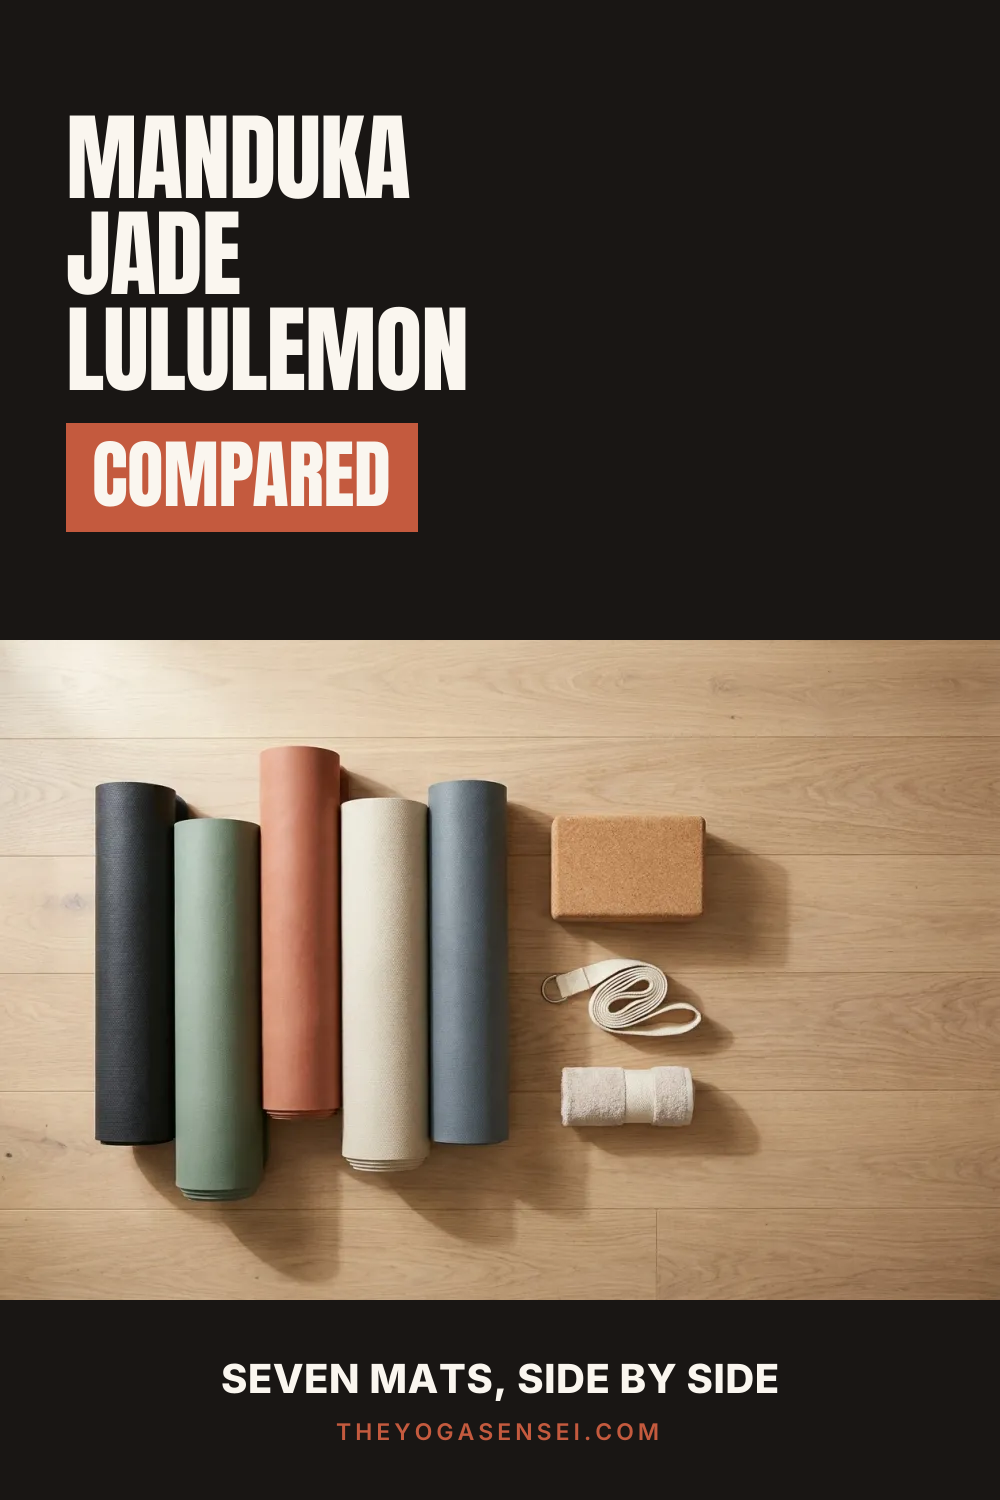
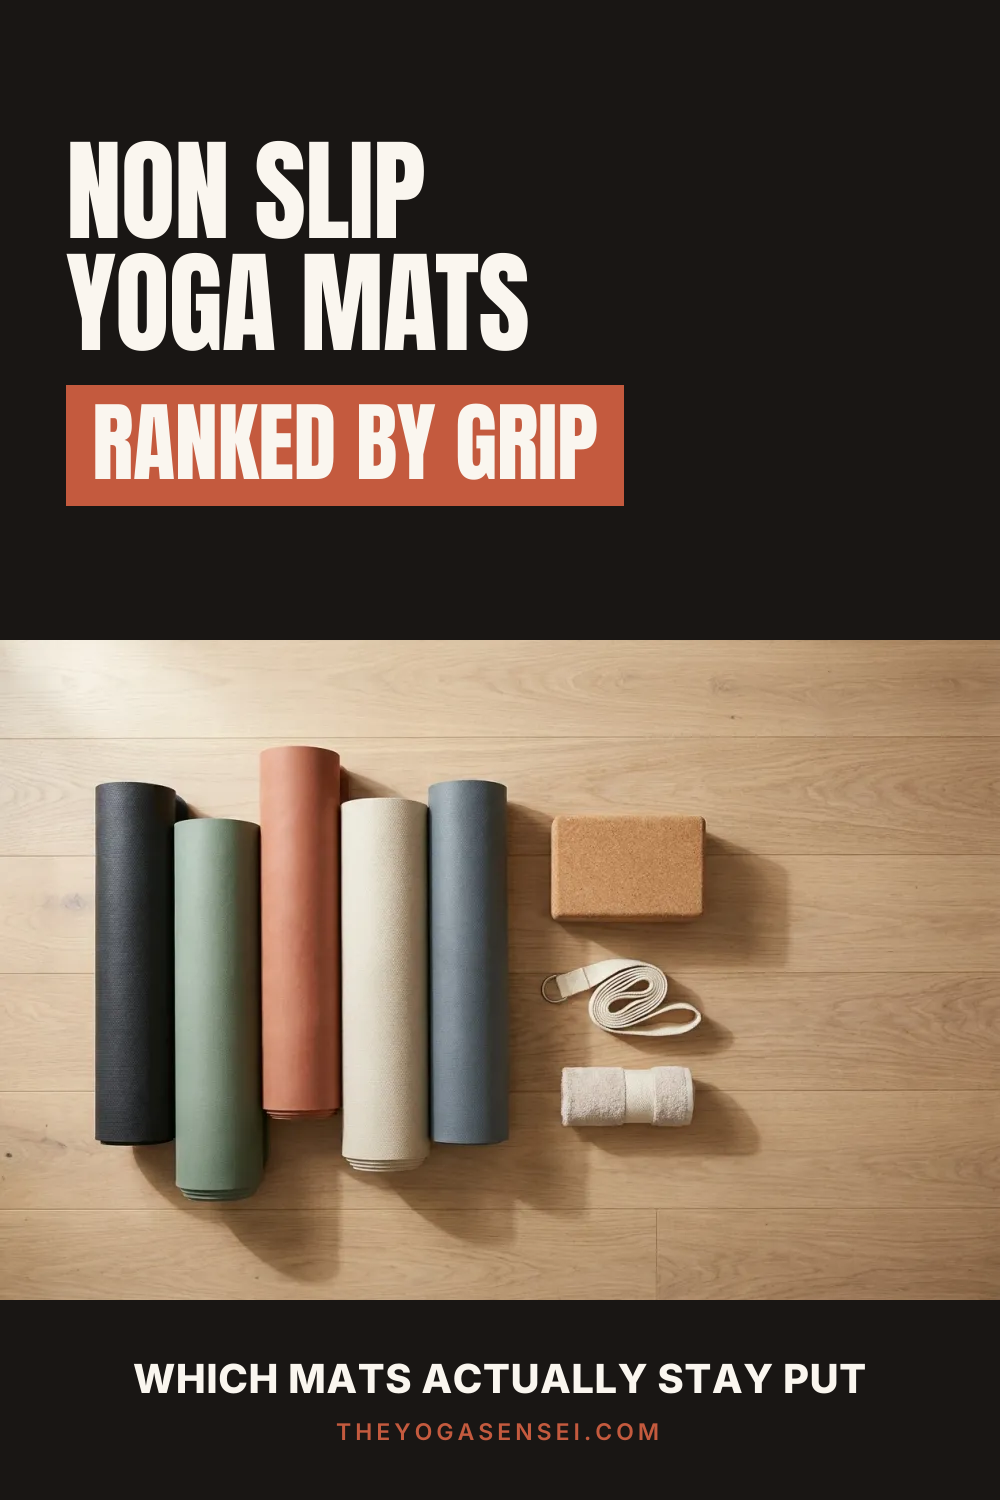
Pins: per-pin Pinterest SEO titles/descriptions; swap 30/mo angle for 4,400/mo non-slip
Pin titles now read like the phrase people search, not the on-image headline,
and each pin carries its own description instead of five copies of one.
Angle 04 targeted 'manduka vs lululemon' (30/mo); switched to 'non slip yoga
mat' (4,400/mo) for the same page. Volumes from DataForSEO, US, 2026-07-25.

Changed region(s): [[0.062, 0.0613, 0.651, 0.368], [0.124, 0.8893, 0.868, 0.9507]]

diff --git a/scripts/generate-pins.ts b/scripts/generate-pins.ts
@@ -85,6 +85,40 @@ const BRAND_POOL = [
 ]
 
 type Hook = [eyebrow: string, title: string, subtitle: string, titleSize?: number]
+
+/**
+ * Per-pin Pinterest SEO copy, keyed by `${slug}/${angle-id}`.
+ * Pinterest is a search engine: the title must read like the phrase people
+ * type, not like the on-image headline. Volumes below are US/month from
+ * DataForSEO (checked 2026-07-25) — they decide which angle gets which pin.
+ */
+const PIN_SEO: Record<string, { title: string; desc: string }> = {
+  // "best yoga mats" — 4,400/mo
+  'best-yoga-mats-bold/01-listicle': {
+    title: 'Best Yoga Mats for Every Practice (2026)',
+    desc: 'Looking for the best yoga mat? Seven mats compared and honestly ranked on grip, cushion, durability, value and eco impact — from a budget beginner mat to a buy-it-for-life one. No invented lab tests, every claim sourced, and clear notes on who should skip each mat.',
+  },
+  // "best yoga mat for hot yoga" — 4,400/mo
+  'best-yoga-mats-bold/02-problem': {
+    title: 'Best Yoga Mat for Hot Yoga: Grip That Survives Sweat',
+    desc: 'Sliding out of down dog in a heated class? This is the grip problem, solved. Seven yoga mats compared on wet grip, sweat handling and material — including which ones need a towel and which hold on their own. Honest picks, no fake testing claims.',
+  },
+  // "best yoga mat for beginners" — 390/mo, high intent
+  'best-yoga-mats-bold/03-comparison': {
+    title: 'Best Yoga Mat for Beginners: 7 Mats Compared',
+    desc: 'Buying your first yoga mat? Here are seven mats compared on grip, cushion, thickness and price tier, so you can start without overpaying. Includes the beginner value pick, what thickness actually suits home practice, and when a cheaper mat is genuinely fine.',
+  },
+  // "non slip yoga mat" — 4,400/mo (replaced the Manduka-vs-Lululemon angle at 30/mo)
+  'best-yoga-mats-bold/04-aesthetic': {
+    title: 'Non Slip Yoga Mat: 7 Mats Ranked by Grip',
+    desc: 'A non slip yoga mat is the difference between holding a pose and sliding out of it. Seven mats ranked on grip — dry and sweaty — plus the material that grips best, why texture beats price, and which mats only grip once broken in.',
+  },
+  // "yoga mat comparison" — 260/mo, LOW competition
+  'best-yoga-mats-bold/05-checklist': {
+    title: 'Yoga Mat Comparison: 7 Mats Scored Side by Side',
+    desc: 'A straight yoga mat comparison: seven mats scored on grip, cushion, durability, value and eco impact, with the trade-off spelled out for each. Research-led from specs and aggregated reviews — no invented lab tests, and honest about when not to buy.',
+  },
+}
 interface Guide {
   slug: string
   hashtags: string
@@ -663,7 +697,9 @@ const GUIDES: Guide[] = [
       ['For every practice', 'Best\nYoga Mats', '7 mats, honestly ranked', 112],
       ['For hot yoga', 'Best\nYoga Mat', 'Grip that survives the sweat', 112],
       ['For beginners', 'Best\nYoga Mat', 'Start without overpaying', 112],
-      ['Compared', 'Manduka\nJade\nLululemon', 'Seven mats, side by side', 96],
+      // Was Manduka/Jade/Lululemon — "manduka vs lululemon" is only 30/mo,
+      // while "non slip yoga mat" is 4,400/mo for the same page.
+      ['Ranked by grip', 'Non Slip\nYoga Mats', 'Which mats actually stay put', 112],
       ['Worth the money', 'Yoga Mats', 'No fake lab tests. Sources cited.', 116],
     ],
   },
@@ -771,8 +807,8 @@ async function main() {
         `## ${id}`,
         '',
         `- **Image:** \`${rel}\``,
-        `- **Pin title:** ${guide.hooks[a][1]}`,
-        `- **Pin description:** ${guide.desc} ${guide.hashtags}`,
+        `- **Pin title:** ${PIN_SEO[`${guide.slug}/${id}`]?.title ?? guide.hooks[a][1].replace(/\n/g, ' ')}`,
+        `- **Pin description:** ${PIN_SEO[`${guide.slug}/${id}`]?.desc ?? guide.desc} ${guide.hashtags}`,
         `- **Link:** ${url}`,
         '',
       )

diff --git a/public/images/pins/best-yoga-mats-bold/_pins.md b/public/images/pins/best-yoga-mats-bold/_pins.md
@@ -7,39 +7,34 @@
 ## 01-listicle
 
 - **Image:** `public/images/pins/best-yoga-mats-bold/01-listicle.png`
-- **Pin title:** Best
-Yoga Mats
-- **Pin description:** An honest 2026 yoga mat guide comparing seven standout picks by grip, cushion, durability, value and eco — research-led, no invented lab tests. #yogamat #bestyogamats #yogagear #yogaforbeginners #yogaessentials
+- **Pin title:** Best Yoga Mats for Every Practice (2026)
+- **Pin description:** Looking for the best yoga mat? Seven mats compared and honestly ranked on grip, cushion, durability, value and eco impact — from a budget beginner mat to a buy-it-for-life one. No invented lab tests, every claim sourced, and clear notes on who should skip each mat. #yogamat #bestyogamats #yogagear #yogaforbeginners #yogaessentials
 - **Link:** https://www.theyogasensei.com/reviews/best-yoga-mats
 
 ## 02-problem
 
 - **Image:** `public/images/pins/best-yoga-mats-bold/02-problem.png`
-- **Pin title:** Best
-Yoga Mat
-- **Pin description:** An honest 2026 yoga mat guide comparing seven standout picks by grip, cushion, durability, value and eco — research-led, no invented lab tests. #yogamat #bestyogamats #yogagear #yogaforbeginners #yogaessentials
+- **Pin title:** Best Yoga Mat for Hot Yoga: Grip That Survives Sweat
+- **Pin description:** Sliding out of down dog in a heated class? This is the grip problem, solved. Seven yoga mats compared on wet grip, sweat handling and material — including which ones need a towel and which hold on their own. Honest picks, no fake testing claims. #yogamat #bestyogamats #yogagear #yogaforbeginners #yogaessentials
 - **Link:** https://www.theyogasensei.com/reviews/best-yoga-mats
 
 ## 03-comparison
 
 - **Image:** `public/images/pins/best-yoga-mats-bold/03-comparison.png`
-- **Pin title:** Best
-Yoga Mat
-- **Pin description:** An honest 2026 yoga mat guide comparing seven standout picks by grip, cushion, durability, value and eco — research-led, no invented lab tests. #yogamat #bestyogamats #yogagear #yogaforbeginners #yogaessentials
+- **Pin title:** Best Yoga Mat for Beginners: 7 Mats Compared
+- **Pin description:** Buying your first yoga mat? Here are seven mats compared on grip, cushion, thickness and price tier, so you can start without overpaying. Includes the beginner value pick, what thickness actually suits home practice, and when a cheaper mat is genuinely fine. #yogamat #bestyogamats #yogagear #yogaforbeginners #yogaessentials
 - **Link:** https://www.theyogasensei.com/reviews/best-yoga-mats
 
 ## 04-aesthetic
 
 - **Image:** `public/images/pins/best-yoga-mats-bold/04-aesthetic.png`
-- **Pin title:** Manduka
-Jade
-Lululemon
-- **Pin description:** An honest 2026 yoga mat guide comparing seven standout picks by grip, cushion, durability, value and eco — research-led, no invented lab tests. #yogamat #bestyogamats #yogagear #yogaforbeginners #yogaessentials
+- **Pin title:** Non Slip Yoga Mat: 7 Mats Ranked by Grip
+- **Pin description:** A non slip yoga mat is the difference between holding a pose and sliding out of it. Seven mats ranked on grip — dry and sweaty — plus the material that grips best, why texture beats price, and which mats only grip once broken in. #yogamat #bestyogamats #yogagear #yogaforbeginners #yogaessentials
 - **Link:** https://www.theyogasensei.com/reviews/best-yoga-mats
 
 ## 05-checklist
 
 - **Image:** `public/images/pins/best-yoga-mats-bold/05-checklist.png`
-- **Pin title:** Yoga Mats
-- **Pin description:** An honest 2026 yoga mat guide comparing seven standout picks by grip, cushion, durability, value and eco — research-led, no invented lab tests. #yogamat #bestyogamats #yogagear #yogaforbeginners #yogaessentials
+- **Pin title:** Yoga Mat Comparison: 7 Mats Scored Side by Side
+- **Pin description:** A straight yoga mat comparison: seven mats scored on grip, cushion, durability, value and eco impact, with the trade-off spelled out for each. Research-led from specs and aggregated reviews — no invented lab tests, and honest about when not to buy. #yogamat #bestyogamats #yogagear #yogaforbeginners #yogaessentials
 - **Link:** https://www.theyogasensei.com/reviews/best-yoga-mats
